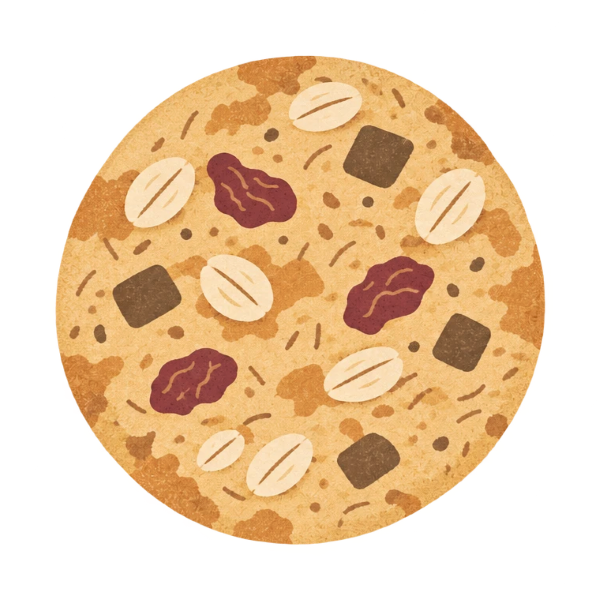
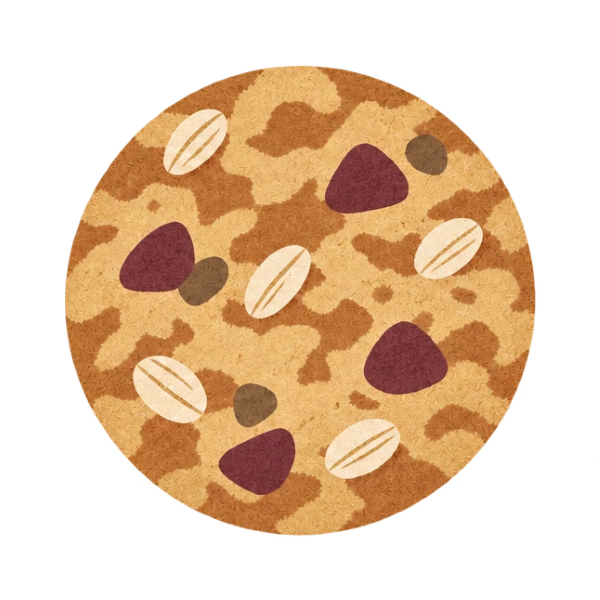
New cookie; repeated clicks add up to three more bites

diff --git a/index.html b/index.html
@@ -218,9 +218,11 @@ body::after{content:"";position:fixed;inset:0;z-index:300;pointer-events:none;op
 .cookies{display:grid;grid-template-columns:repeat(2,1fr);gap:40px;width:min(100%,760px);margin-left:auto;margin-right:auto}
 .ck{cursor:pointer;display:block;width:100%;text-align:center}
 /* 쿠키: 누르면 한 입 베어 문 쿠키로 바뀜 */
-.ck .bite{position:relative;display:block;width:clamp(154px,21vh,213px);aspect-ratio:1;margin:0 auto 28px;transition:transform .6s var(--ease)}
+.ck .bite{position:relative;display:block;width:clamp(162px,22vh,224px);aspect-ratio:1;margin:0 auto 28px;transition:transform .6s var(--ease)}
 .ck .bite img{position:absolute;inset:0;width:100%;height:100%;object-fit:contain;transition:opacity .15s}
 .ck .bite .after,.ck.bitten .bite .before{opacity:0}
+/* 연달아 누를 때 더 깨문 자국: 베어 문 쿠키 그림에 원 모양 구멍(마스크)을 겹쳐서 냄 */
+.ck .bite .after{-webkit-mask-repeat:no-repeat;mask-repeat:no-repeat;-webkit-mask-size:100% 100%;mask-size:100% 100%;-webkit-mask-composite:source-in;mask-composite:intersect}
 .ck.bitten .bite .after{opacity:1}
 .ck:hover .bite{transform:translateY(-8px)}
 .ck.bitten .bite{animation:nibble .25s ease-out}
@@ -1024,10 +1026,25 @@ setTimeout(()=>{
   $$("#main-view > section.sec").forEach(s=>secIO.observe(s));
 },0);
 
-/* 쿠키 한 입: 잠깐 베어 문 쿠키를 보여주고 다시 원래 쿠키로 */
 const biteT=new WeakMap();
-function bite(ck){clearTimeout(biteT.get(ck));ck.classList.remove("bitten");void ck.offsetWidth;ck.classList.add("bitten");
-  biteT.set(ck,setTimeout(()=>ck.classList.remove("bitten"),1600));}
+/* 쿠키 한 입: 누르면 베어 문 쿠키, 연달아 누르면 최대 세 번까지 깨문 자국이 더 생김.
+   잠시(1.6초) 그대로 두면 다시 온전한 쿠키로 */
+const EXTRA_BITES=[160,55,235];   // 추가로 깨무는 자리 (쿠키 중심 기준 각도, 0=오른쪽·90=아래)
+const BITE_SHAPE=[[-11,41,10],[0,39,11],[11,41,10]];   // 한 입 = 원 3개 [각도 차, 중심에서 거리 %, 반지름 %]
+function biteMask(n){
+  const layers=[];
+  EXTRA_BITES.slice(0,n).forEach(a=>BITE_SHAPE.forEach(([da,d,r])=>{const t=(a+da)*Math.PI/180;
+    layers.push(`radial-gradient(${r}% ${r}% at ${(50+d*Math.cos(t)).toFixed(1)}% ${(50+d*Math.sin(t)).toFixed(1)}%, transparent 97%, #000 100%)`);}));
+  return layers.length?layers.join(","):"none";
+}
+function bite(ck){
+  clearTimeout(biteT.get(ck));
+  const n=ck.classList.contains("bitten")?Math.min(EXTRA_BITES.length,(+ck.dataset.bites||0)+1):0;
+  ck.dataset.bites=n;
+  const after=ck.querySelector(".bite .after"), m=biteMask(n);
+  after.style.webkitMaskImage=m; after.style.maskImage=m;
+  ck.classList.remove("bitten");void ck.offsetWidth;ck.classList.add("bitten");
+  biteT.set(ck,setTimeout(()=>{ck.classList.remove("bitten");ck.dataset.bites=0;},1600));}
 
 let tT;
 function toast(m){const t=$("#toast");t.textContent=m;t.classList.add("show");clearTimeout(tT);tT=setTimeout(()=>t.classList.remove("show"),1800);}
